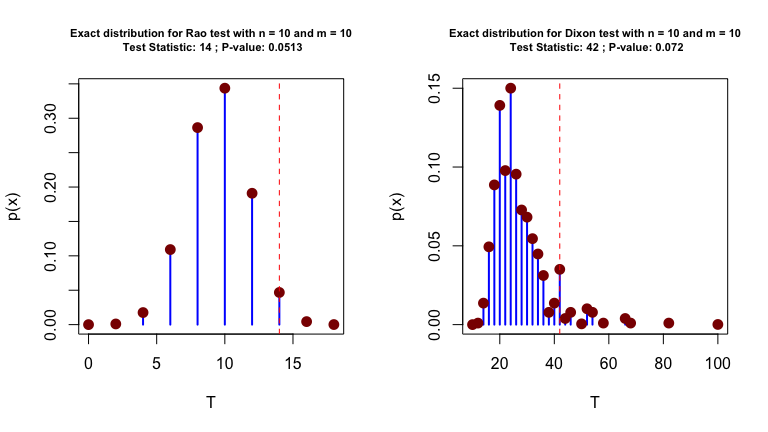
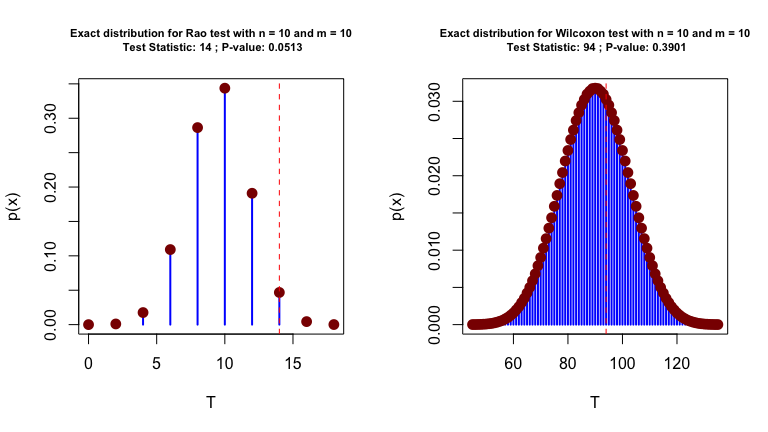
Update package + rename

diff --git a/README.md b/README.md
@@ -8,7 +8,7 @@ Active](http://www.repostatus.org/badges/latest/active.svg)](http://www.repostat
 version](https://img.shields.io/badge/R%3E%3D-3.4.0-6666ff.svg)](https://cran.r-project.org/)
 [![CRAN](http://www.r-pkg.org/badges/version/TwoCircles)](https://cran.r-project.org/package=TwoCircles)
 [![packageversion](https://img.shields.io/badge/Package%20version-0.1.0-orange.svg?style=flat-square)](commits/develop)
-[![Last-changedate](https://img.shields.io/badge/last%20change-2018--11--22-yellowgreen.svg)](/commits/master)
+[![Last-changedate](https://img.shields.io/badge/last%20change-2018--11--23-yellowgreen.svg)](/commits/master)
 
 # `TwoCircles` Overview
 
@@ -19,10 +19,8 @@ following test are considered:
 
   - `dixon`: for Dixon test,
   - `rao`: for Rao test,
-  - `ww`: for Wheeler-Watson,
   - `wilcox`: for Wilcoxon test,
-  - `vdw` for van der Waerden test,
-  - `savage` for Savage test.
+  - `vdw` for van der Waerden test.
 
 The code below presents a simple example with the pigeons dataset of
 Schmidt-Koenig (1958).
@@ -60,50 +58,24 @@ statistic under \(H_0\) to the one obtained by simulations. This can be
 done as follows:
 
 ``` r
-par(mfrow = c(2,2))
+par(mfrow = c(1,2))
 plot(circular_test(pigeons$experimental, pigeons$control), cex.main = 0.7)
-plot(circular_test(pigeons$experimental, pigeons$control, type = "mc", B = 10^2), cex.main = 0.7)
-plot(circular_test(pigeons$experimental, pigeons$control, type = "mc", B = 10^4), cex.main = 0.7)
-plot(circular_test(pigeons$experimental, pigeons$control, type = "mc", B = 10^6), cex.main = 0.7)
+plot(circular_test(pigeons$experimental, pigeons$control, type = "mc", B = 10^3), cex.main = 0.7)
 ```
 
 <img src="man/figures/README-unnamed-chunk-3-1.png" style="display: block; margin: auto;" />
 
-It is also possible to vizualize the (exact or approximated)
-distirbution of the test statistics under \(H_0\). This illustrated with
-Rao and Dixon tests on the same
-dataset.
-
-``` r
-test_rao = circular_test(pigeons$control, pigeons$experimental, test = "rao")
-test_rao
-#> 
-#>       Rao Two Sample Test
-#> 
-#> Data:  pigeons$control and pigeons$experimental
-#> Test Statistic: 14
-#> Exact P-value: 0.05126
-#> Bracketing Points and Pair of Signif. Levels:
-#> c1 = 14 (p1 = 0.0513)
-#> c2 = 16 (p2 = 0.0045)
-par(mfrow = c(1,2))
-plot(test_rao, cex.main = 0.7)
-
-test_dixon = circular_test(pigeons$control, pigeons$experimental, test = "dixon")
-test_dixon
-#> 
-#>       Dixon Two Sample Test
-#> 
-#> Data:  pigeons$control and pigeons$experimental
-#> Test Statistic: 42
-#> Exact P-value: 0.07204
-#> Bracketing Points and Pair of Signif. Levels:
-#> c1 = 42 (p1 = 0.0720)
-#> c2 = 44 (p2 = 0.0370)
-plot(test_dixon, cex.main = 0.7)
-```
-
-![](man/figures/README-unnamed-chunk-4-1.png)<!-- -->
+The simulation-based approach is proposed here as an alternative to make
+computation faster when the samples are too large to allow for the
+calculation of the exact sampling distribution through exhaustive
+enumeration of all possible combinations. When the number of Monte-Carlo
+replication is relatively large (say around \(10^3\) or more) the
+results with the exact and approximated method are very close. In
+addition, this method also provides an estimate of the standard error
+associated to the obtained p-value, which is computed by nonparametric
+bootstrap. The precision of the simulation-based approach is illustrated
+in the simple simulation presented below where we compared the p-values
+obtained with the exact and simulation-based method.
 
 ``` r
 # Number of simulations
@@ -142,17 +114,4 @@ hist(100*(exact_pval-mc_pval[,2]), col = "lightgrey", probability = TRUE, xlab =
 hist(100*(exact_pval-mc_pval[,3]), col = "lightgrey", probability = TRUE, xlab = "Exact p-value - MC p-value (%)", main = "B = 100,000", xlim = c(-0.5, 2))
 ```
 
-<img src="man/figures/README-unnamed-chunk-6-1.png" style="display: block; margin: auto;" />
-
-## Install Instructions
-
-To install the `TwoCircles` package, there is currently one option:
-[GitHub](https://github.com/SMAC-Group/TwoCircles/).
-
-``` r
-# Install dependencies
-install.packages(c("gRbase","circular"))
-
-# Install the package from GitHub
-devtools::install_github("SMAC-Group/TwoCircles")
-```
+<img src="man/figures/README-unnamed-chunk-5-1.png" style="display: block; margin: auto;" />
